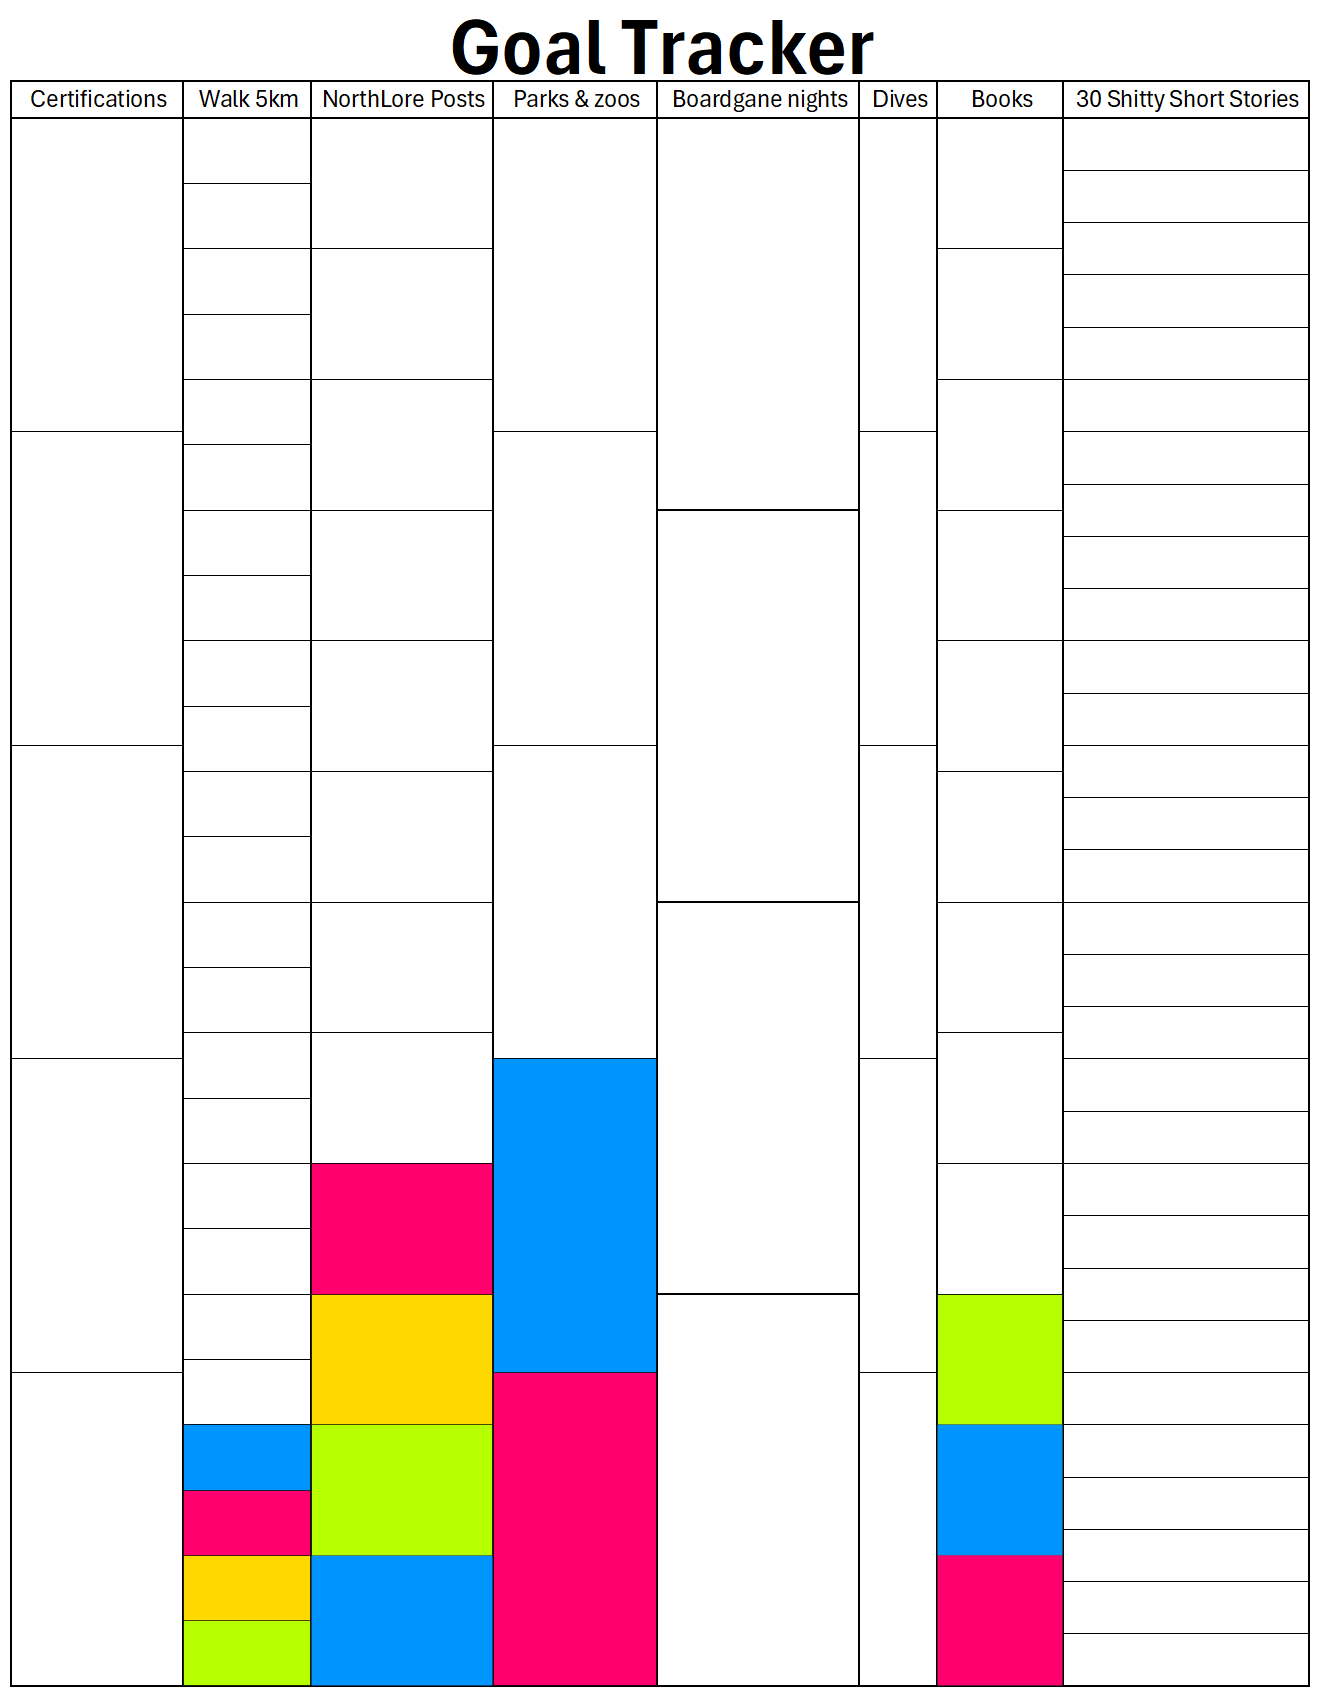
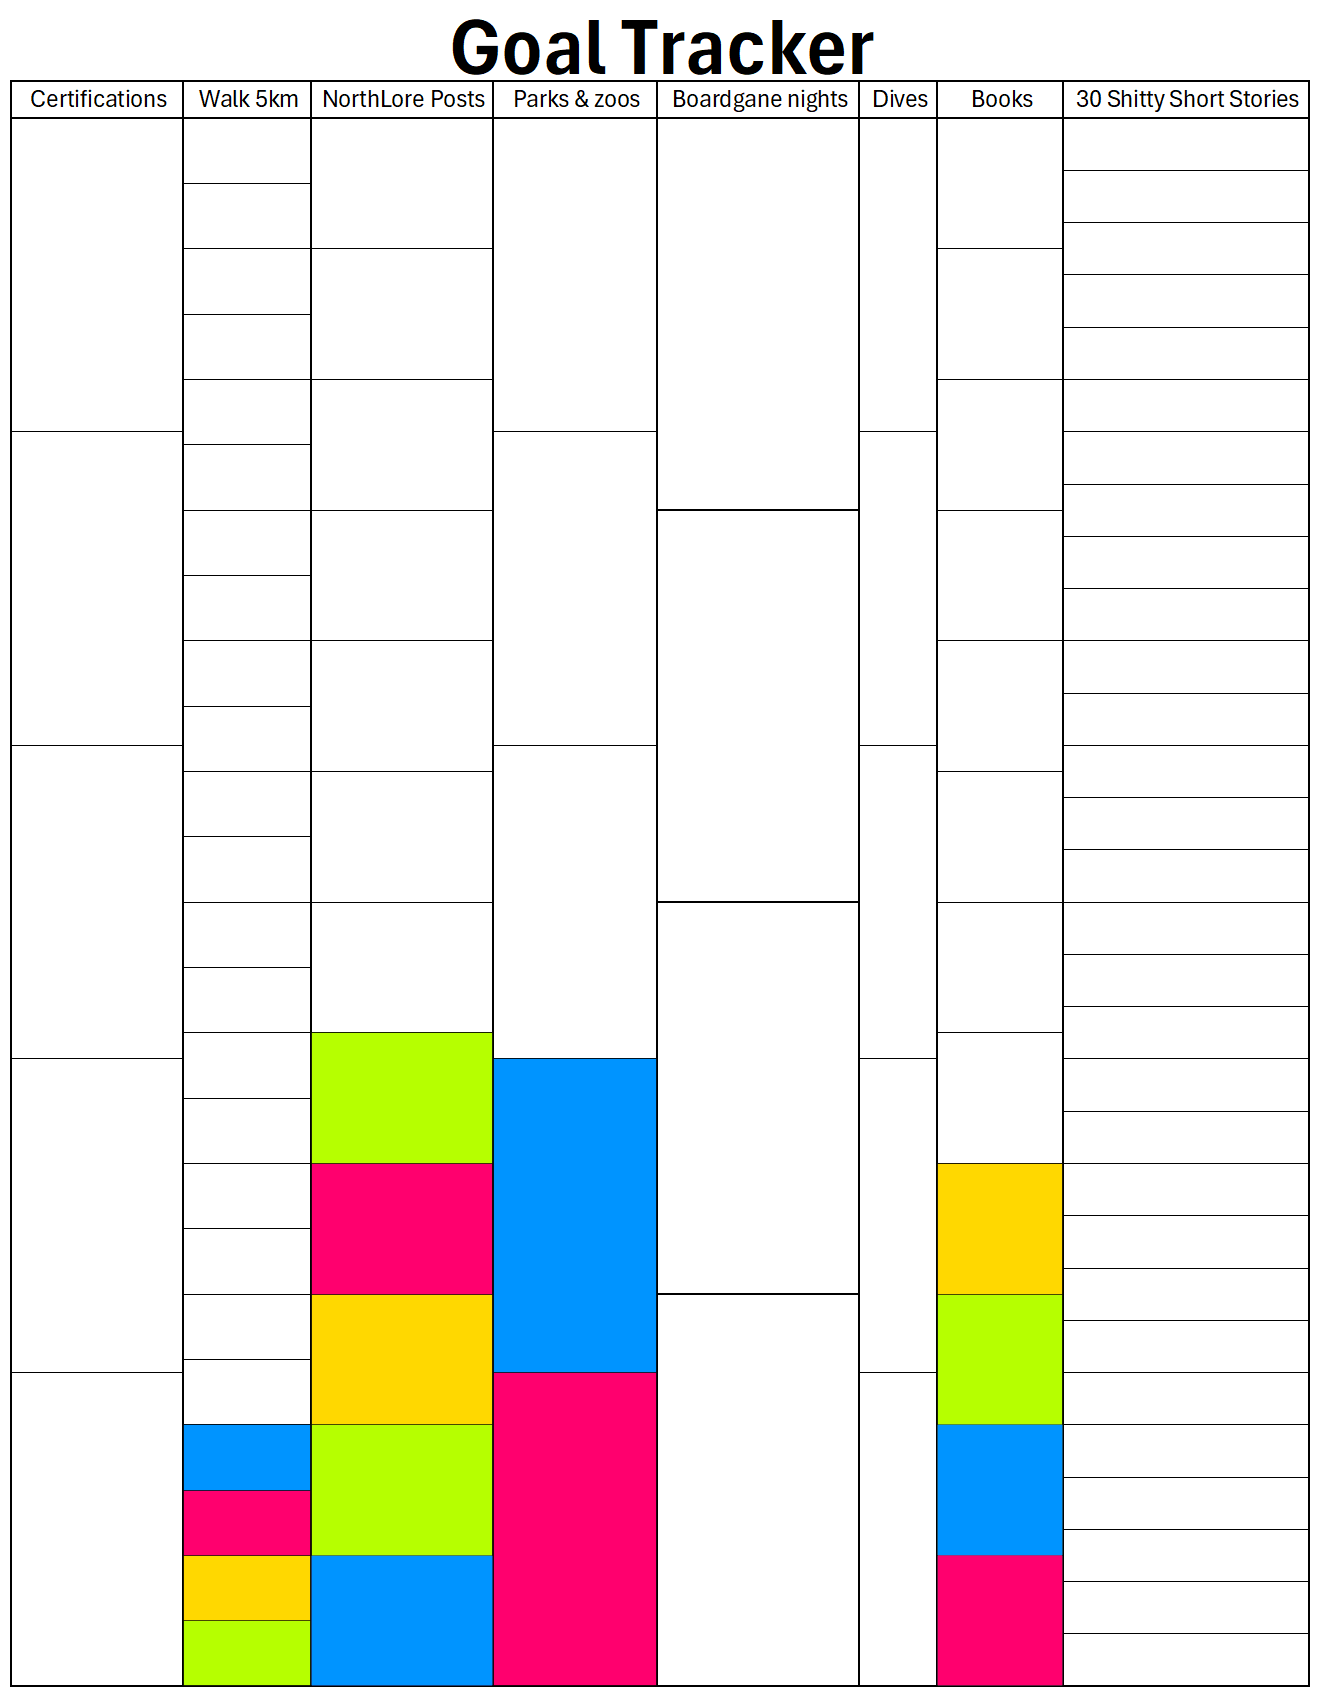
Update Bingo

Changed region(s): [[0.2179, 0.5934, 0.3736, 0.6871], [0.6849, 0.6871, 0.8094, 0.7808]]

diff --git a/src/posts/the_forge/2026Bingo.md b/src/posts/the_forge/2026Bingo.md
@@ -66,6 +66,8 @@ Good luck, and have fun!
 ## TLDR; Milestones reached
 | Date  | Goal              | Note                           |
 | ----- | ----              | ----                           |
+| 05/05 | Read Books        | Ternet Ninja 2                 |
+| 01/05 | NorthLore Posts   | My Final Wishes                |
 | 28/04 | 5K walks          | Lazy Afternoon Walk            |
 | 23/04 | NorthLore Posts   | Daily Walk Challenge completed |
 | 10/04 | NorthLore Posts   | Scoundrel                      |